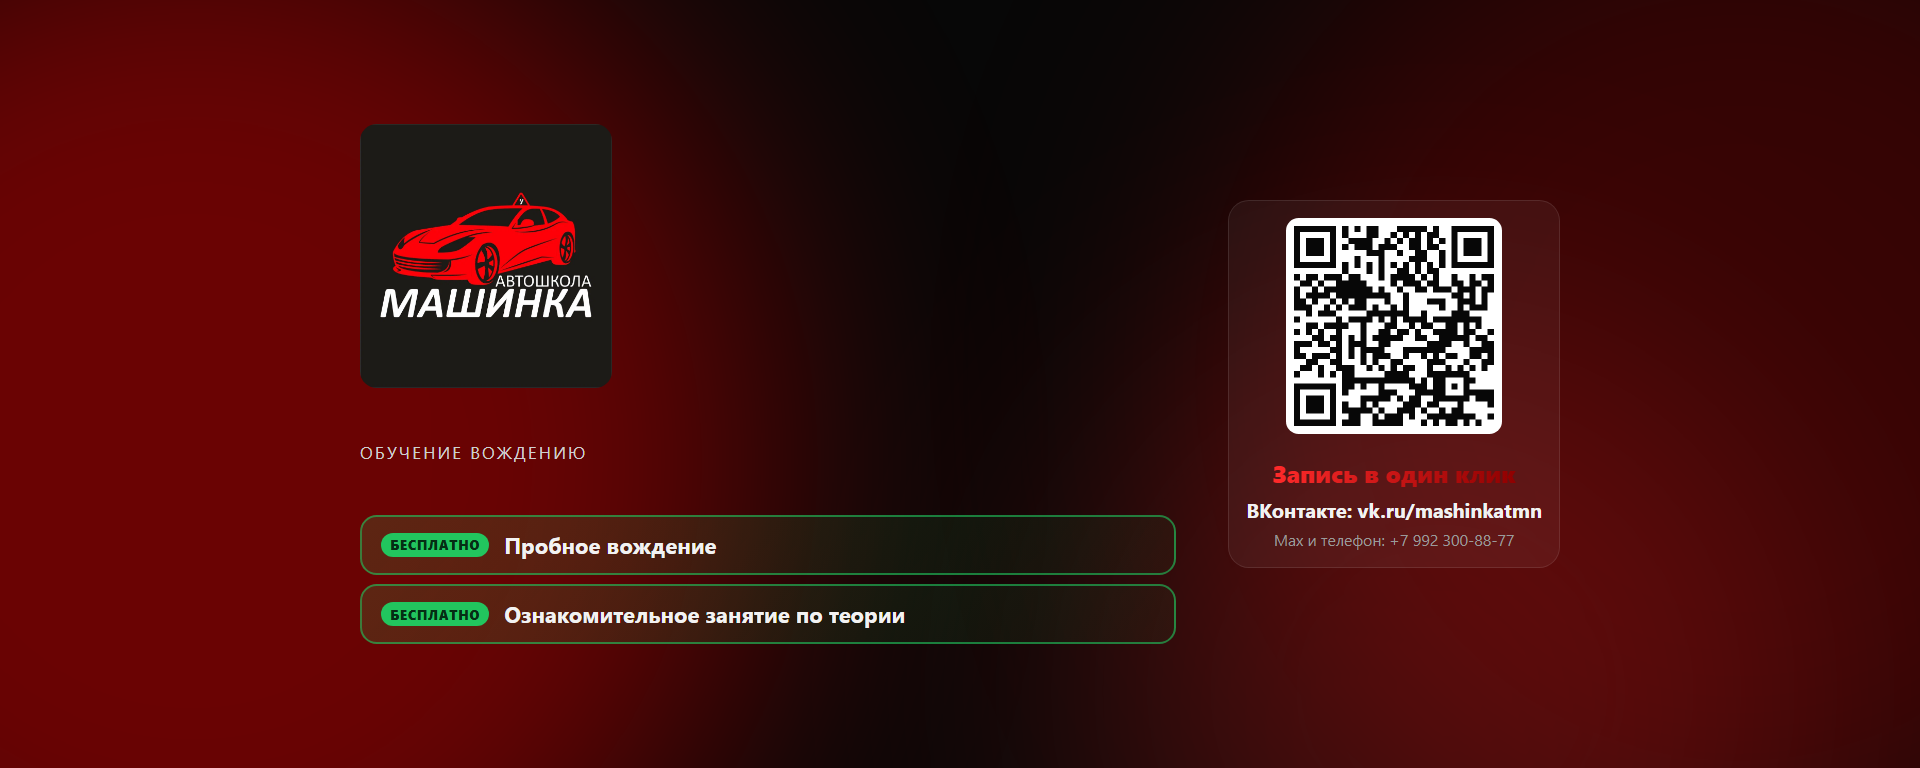
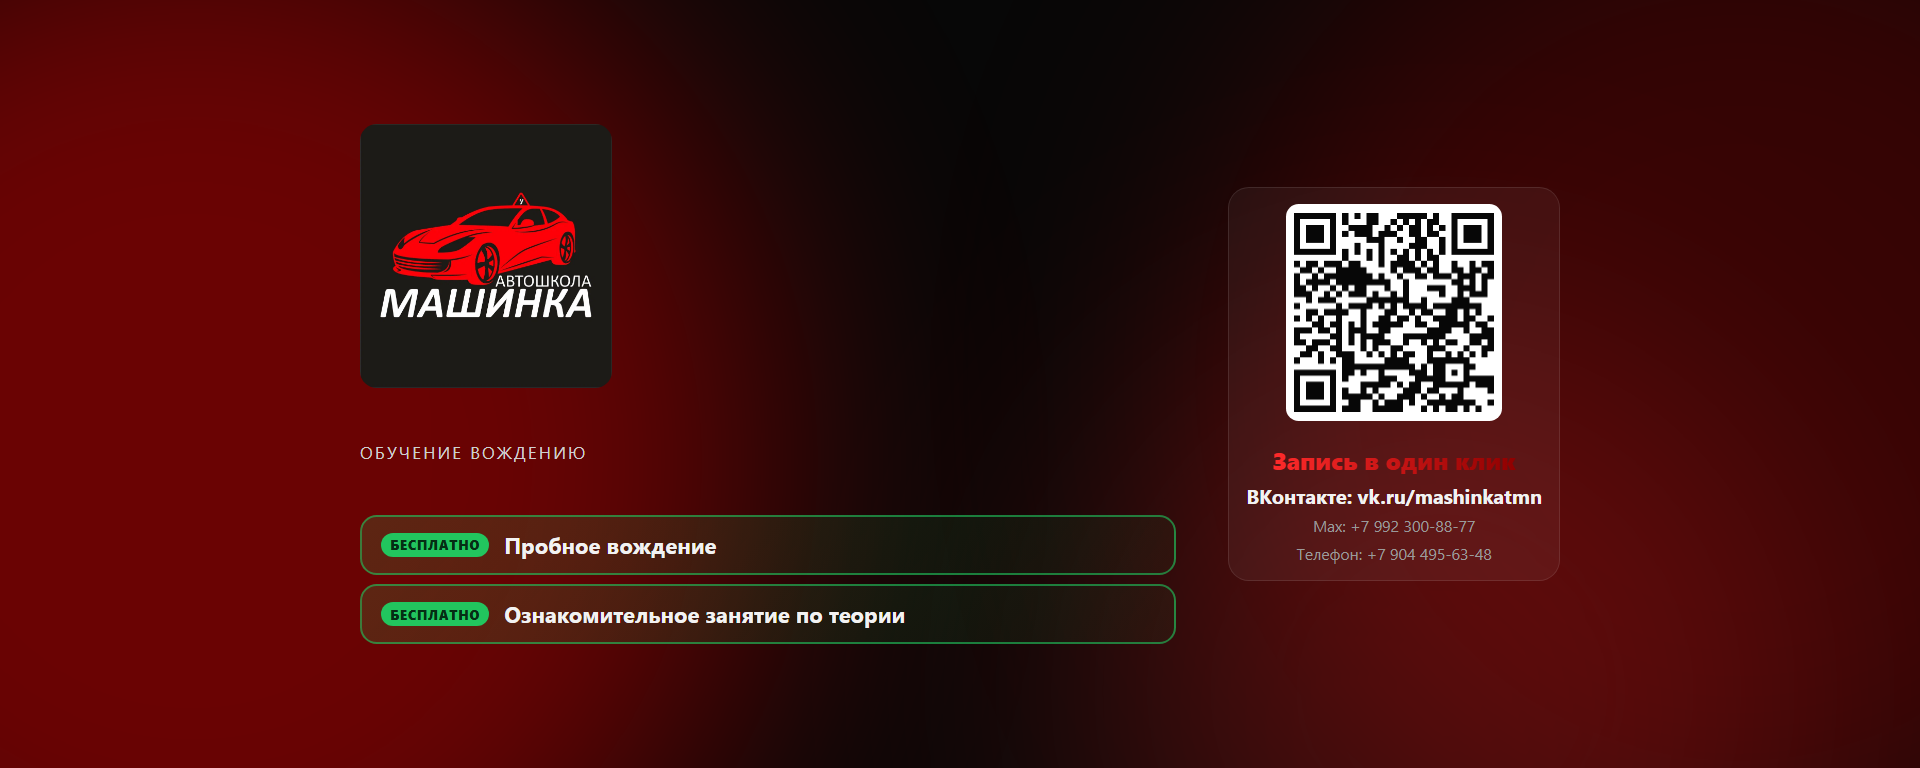
Визитка: отдельный номер для звонков +7 904 495-63-48
Max остаётся на +7 992 300-88-77; промо-картинки перерисованы.

Changed region(s): [[0.6562, 0.25, 0.7812, 0.5625], [0.625, 0.5938, 0.8125, 0.75]]

diff --git a/vizitka.html b/vizitka.html
@@ -625,7 +625,7 @@
         </svg>
       </button>
 
-      <a class="social call" href="tel:+79923008877" aria-label="Позвонить">
+      <a class="social call" href="tel:+79044956348" aria-label="Позвонить">
         <span class="tip">Позвонить</span>
         <svg viewBox="0 0 24 24" fill="none" stroke="currentColor" stroke-width="2" stroke-linecap="round" stroke-linejoin="round">
           <path d="M22 16.9v3a2 2 0 0 1-2.2 2 19.8 19.8 0 0 1-8.6-3.1 19.5 19.5 0 0 1-6-6A19.8 19.8 0 0 1 2.1 4.2 2 2 0 0 1 4.1 2h3a2 2 0 0 1 2 1.7c.1.9.4 1.8.7 2.7a2 2 0 0 1-.5 2.1L8 9.8a16 16 0 0 0 6 6l1.3-1.3a2 2 0 0 1 2.1-.4c.9.3 1.8.6 2.7.7a2 2 0 0 1 1.7 2Z"/>
@@ -643,7 +643,7 @@
       </button>
     </div>
 
-    <div class="handle">ВКонтакте: <b>vk.ru/mashinkatmn</b><br>Max и телефон: <b>+7 992 300-88-77</b></div>
+    <div class="handle">ВКонтакте: <b>vk.ru/mashinkatmn</b><br>Max: <b>+7 992 300-88-77</b><br>Телефон: <b>+7 904 495-63-48</b></div>
 
     <div class="services-title">Записаться в один клик</div>
     <nav class="services" aria-label="Услуги">
@@ -717,7 +717,7 @@
       <div id="sheetMain">
         <a class="ch vk" id="chVk" href="https://vk.me/mashinkatmn" target="_blank" rel="noopener">ВКонтакте</a>
         <button class="ch max" id="chMax" type="button">Max</button>
-        <a class="ch call" href="tel:+79923008877">Позвонить</a>
+        <a class="ch call" href="tel:+79044956348">Позвонить</a>
         <div class="sheet-note">Текст сообщения скопируется — просто вставьте его в чат.</div>
       </div>
       <div id="sheetMaxSteps" hidden>
@@ -855,7 +855,7 @@
     const site = 'https://halilovtamerlan12-svg.github.io/vizitka/' + (ref ? '?ref=' + ref : '');
     const data = {
       title: 'Автошкола Машинка',
-      text: 'Автошкола «Машинка». ВКонтакте: vk.ru/mashinkatmn, Max и телефон: +7 992 300-88-77',
+      text: 'Автошкола «Машинка». ВКонтакте: vk.ru/mashinkatmn, Max: +7 992 300-88-77, телефон: +7 904 495-63-48',
       url: site
     };
     if (navigator.share) {

diff --git a/partner.html b/partner.html
@@ -208,7 +208,7 @@
       <a class="btn main" id="register" href="https://vk.me/mashinkatmn" target="_blank" rel="noopener">Стать партнёром — ВКонтакте</a>
       <div class="row">
         <button class="btn" id="registerMax" type="button">Через Max</button>
-        <a class="btn" href="tel:+79923008877">Позвонить</a>
+        <a class="btn" href="tel:+79044956348">Позвонить</a>
       </div>
       <p class="hint" id="registerHint">Текст заявки с вашим кодом скопируется — вставьте его в чат. Так автошкола узнает, кому выплачивать вознаграждение.</p>
     </section>
